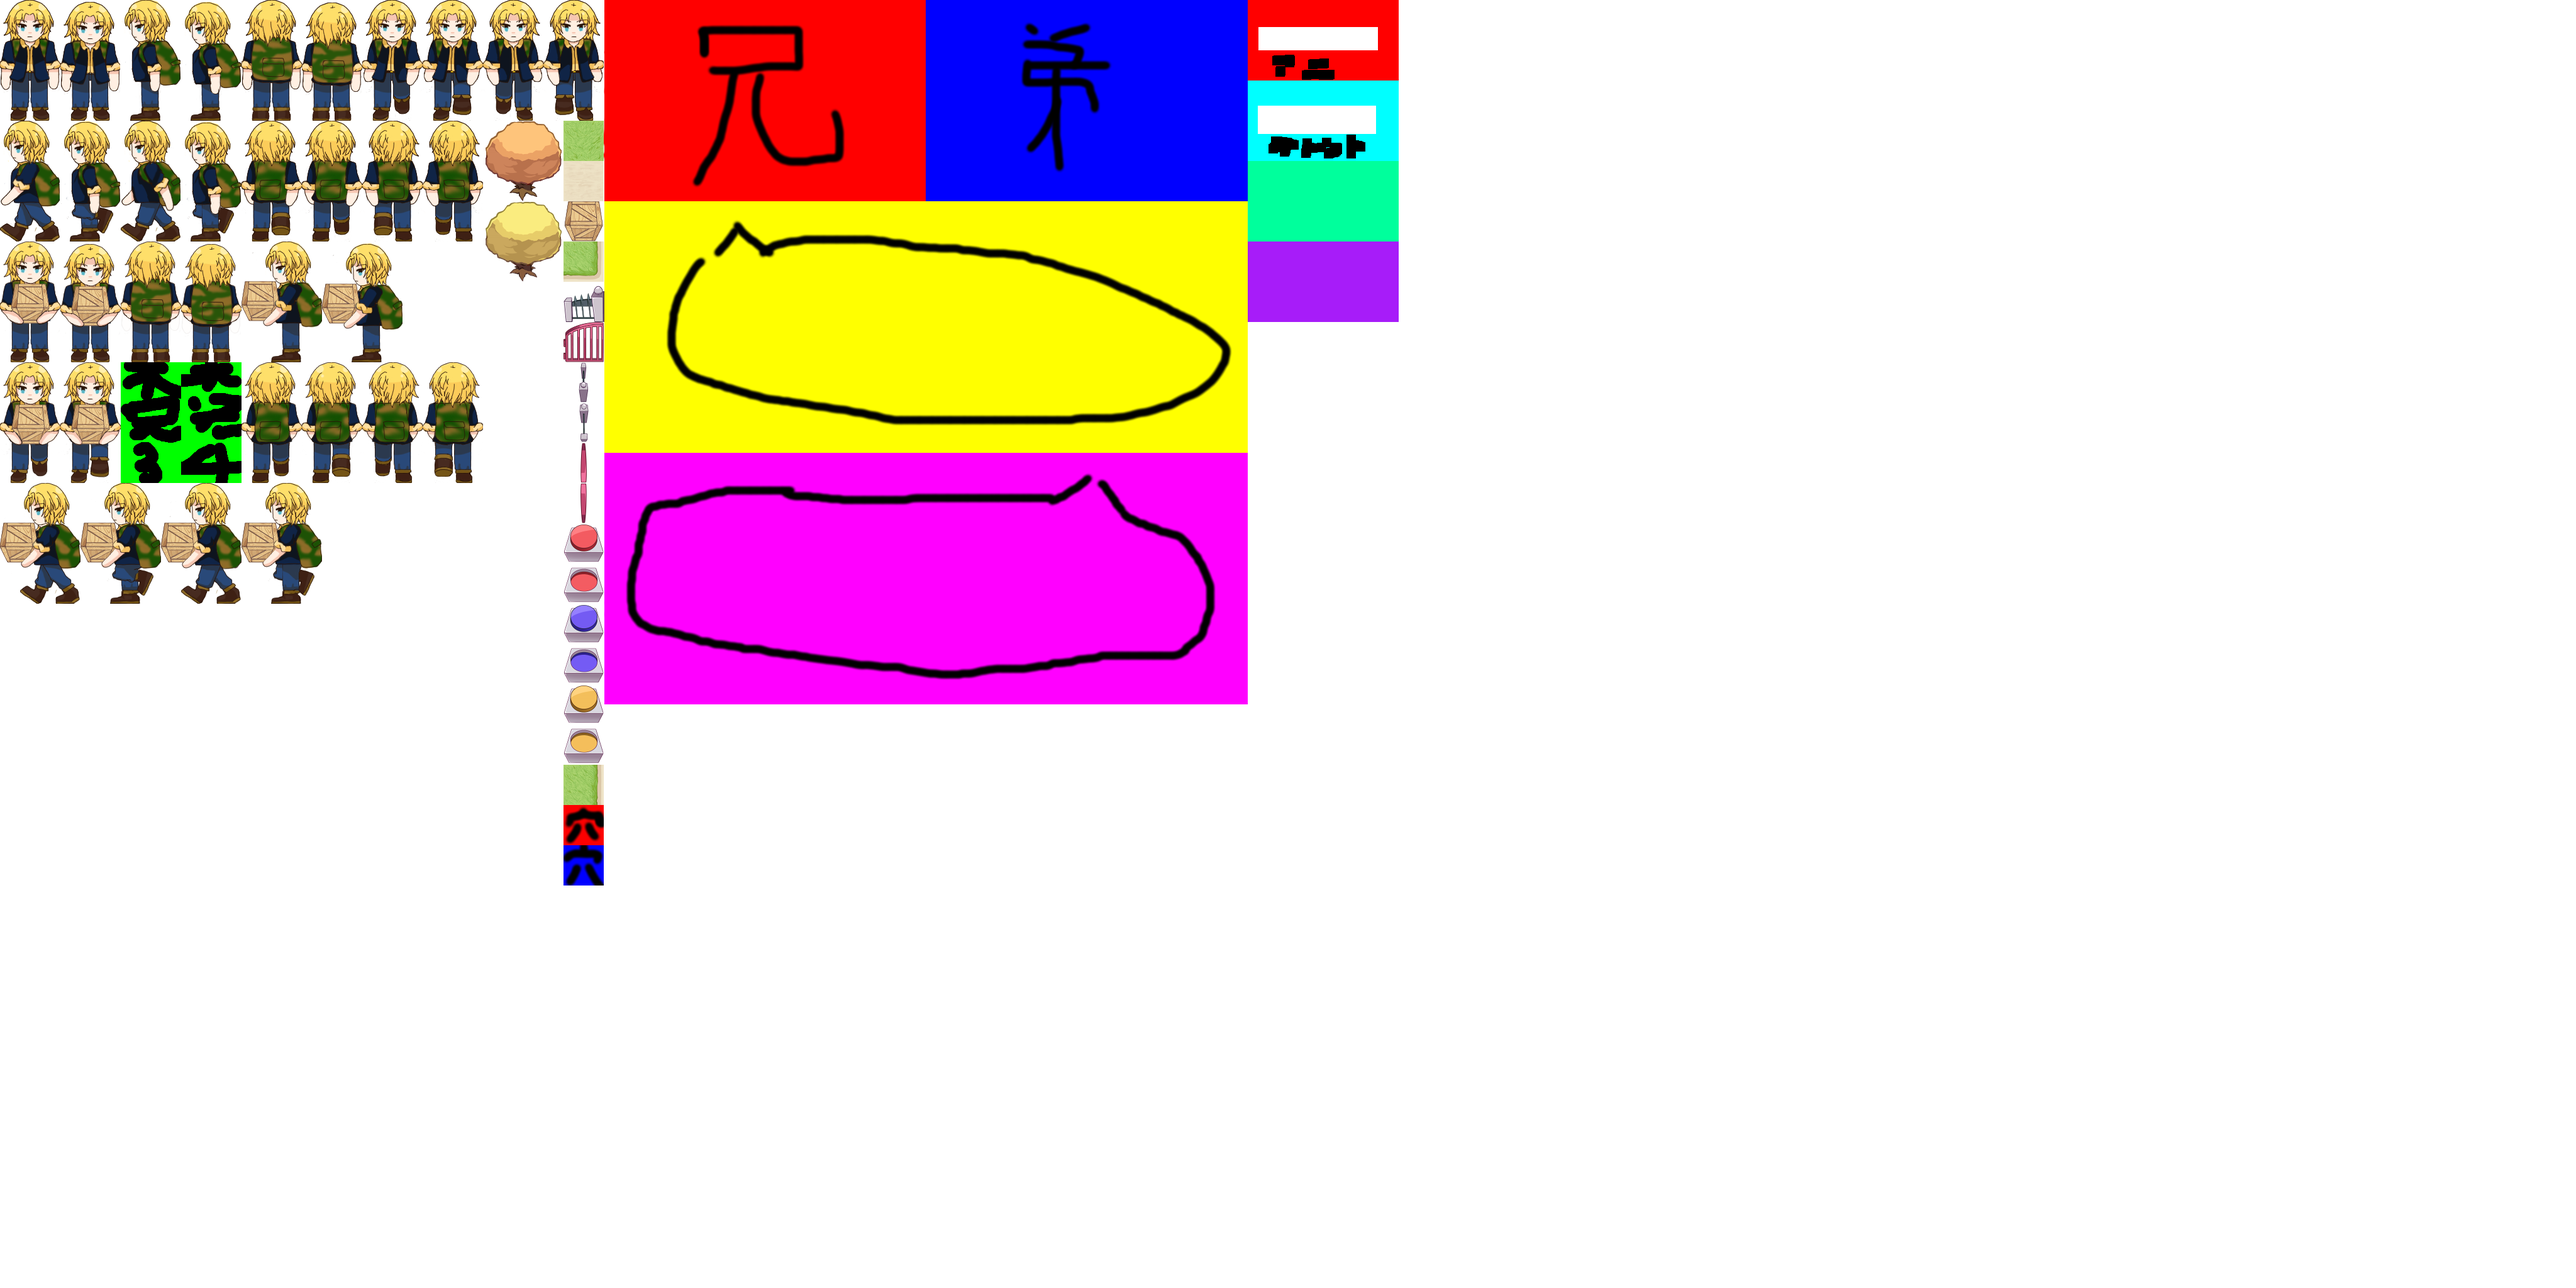
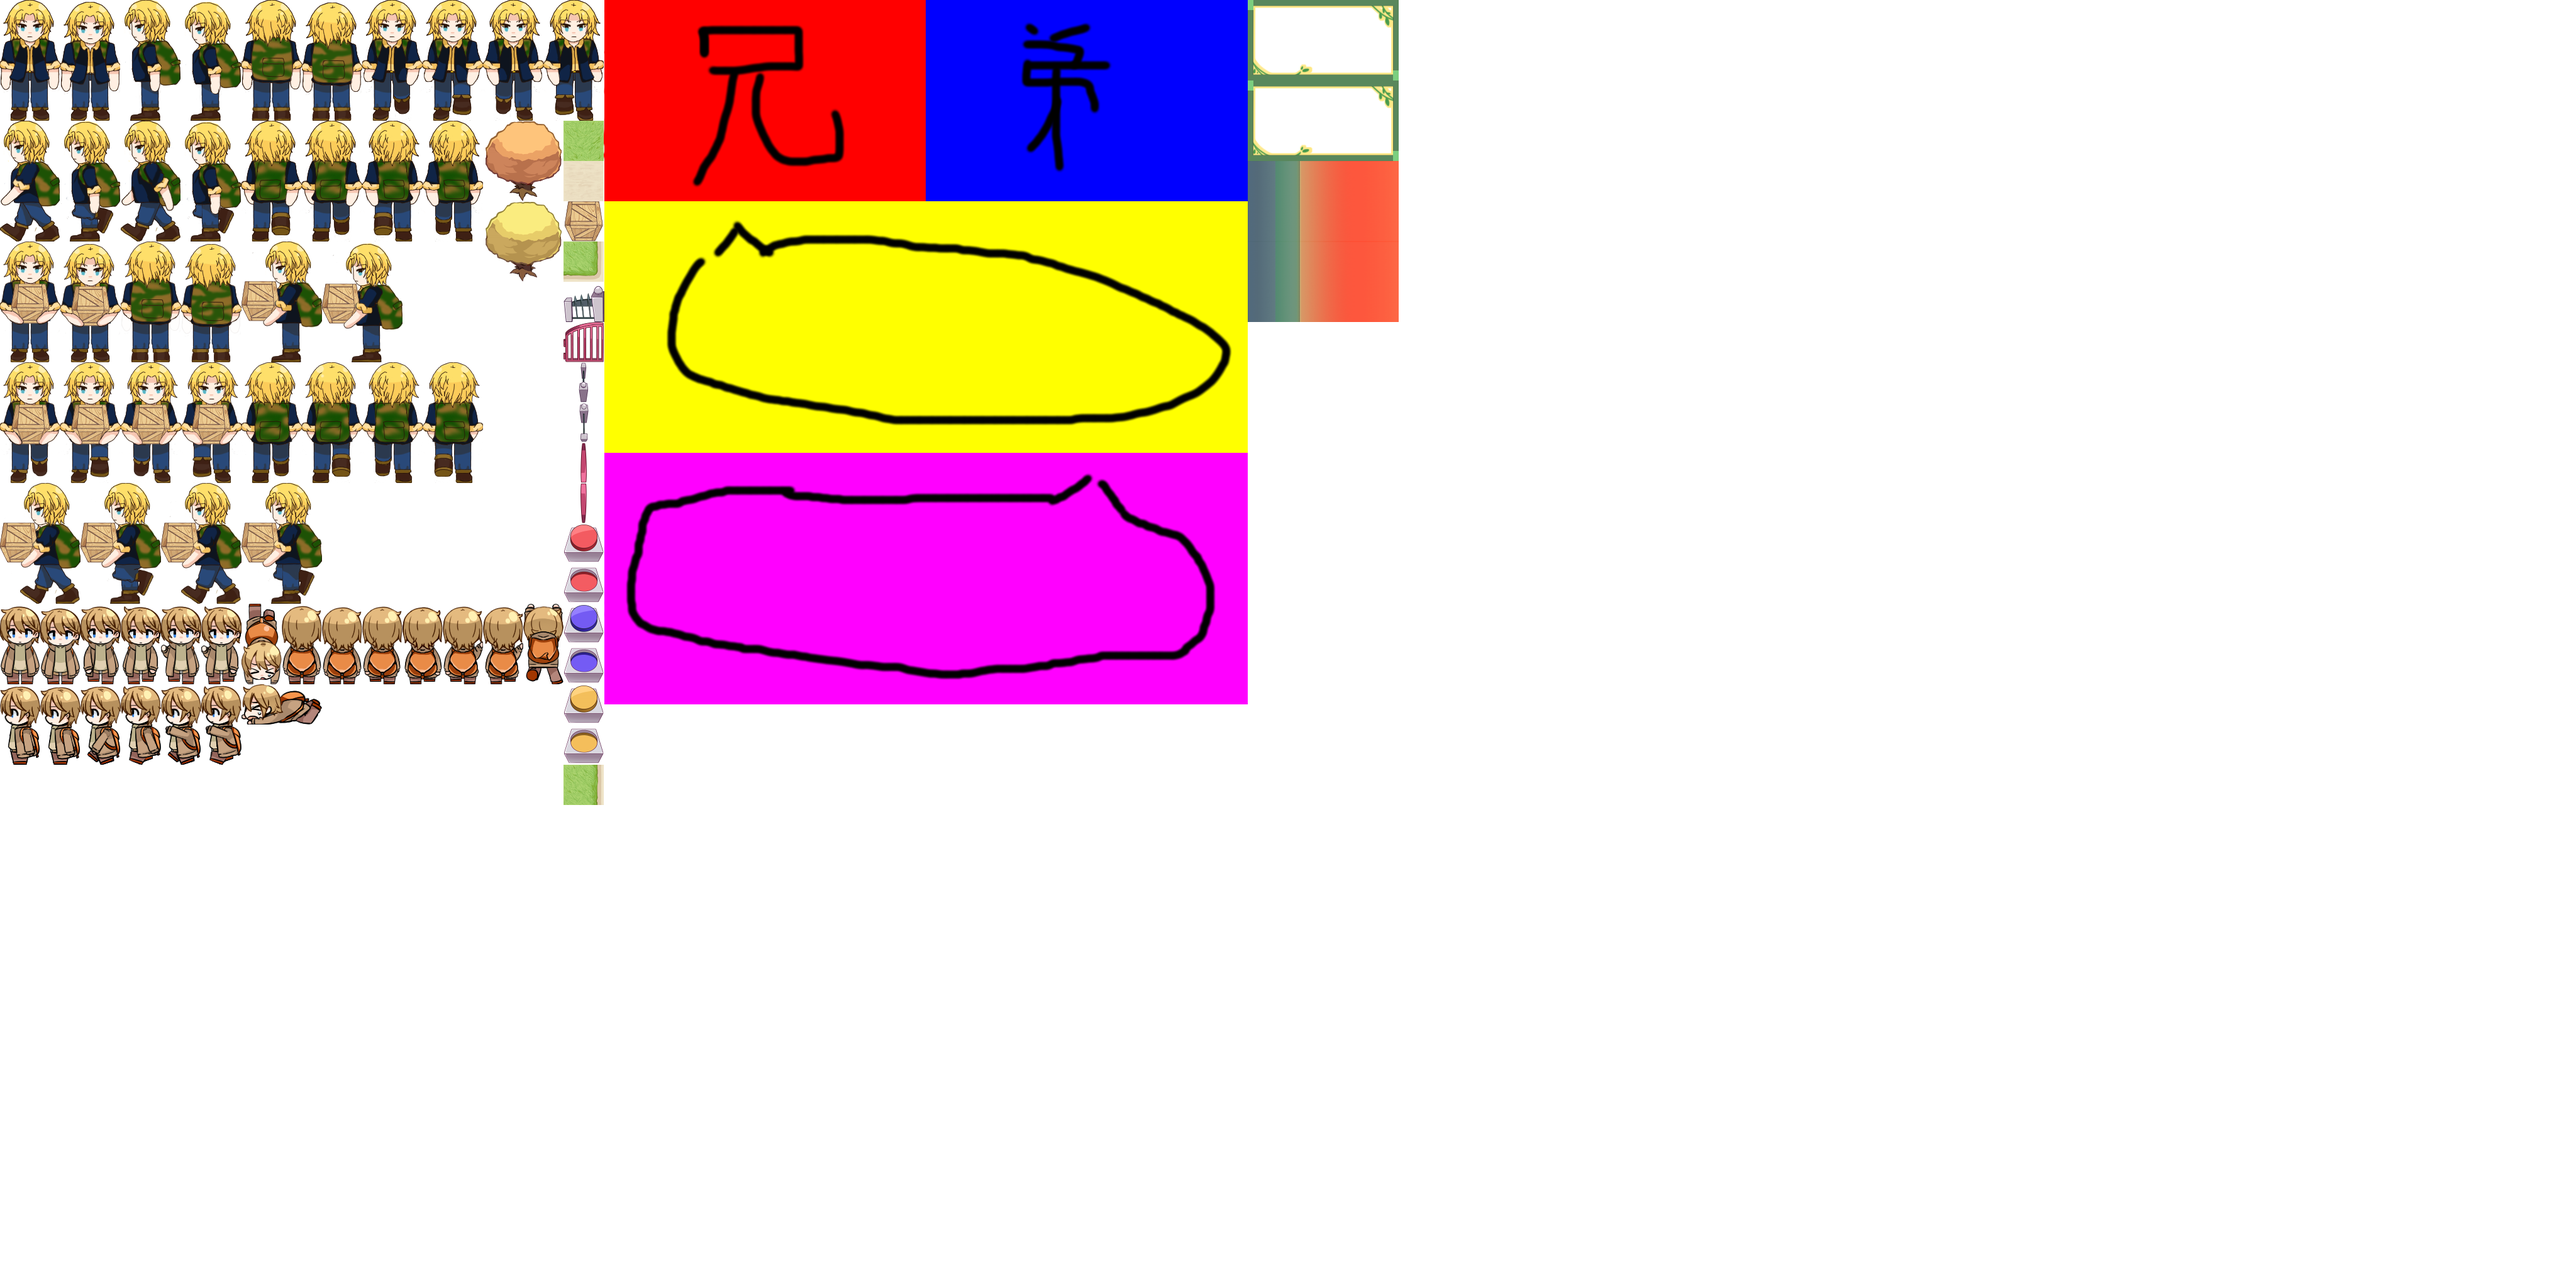
enum

diff --git a/Brother/Brother/GameScene.h b/Brother/Brother/GameScene.h
@@ -140,6 +140,17 @@ enum GAME_VERTEXINFO_ID
 	HOLE_01,
 	HOLE_02,
 
+	YOUNGERBROTHER_tetunagu_FRONT_01,
+	YOUNGERBROTHER_tetunagu_FRONT_02,
+	YOUNGERBROTHER_tetunagu_FRONT_03,
+	YOUNGERBROTHER_tetunagu_FRONT_04,
+	YOUNGERBROTHER_tetunagu_FRONT_05,
+	YOUNGERBROTHER_tetunagu_FRONT_06,
+	YOUNGERBROTHER_korobu_FRONT_01,
+	YOUNGERBROTHER_korobu_FRONT_02,
+	YOUNGERBROTHER_korobu_FRONT_03,
+	BLACKOUT,
+
 
 	GAME_VERTEXINFO_MAX
 };
@@ -160,6 +171,18 @@ enum GAMEANIMA_ID
 	BROTHER_WOODBOX_WALK_BACK,
 	BROTHER_WOODBOX_WALK_SIDE,
 	
+	YOUNGERBROTHER_WAIT_FRONT,
+	YOUNGERBROTHER_WAIT_SIDE,
+	YOUNGERBROTHER_WAIT_BACK,
+	YOUNGERBROTHER_WALK_FRONT,
+	YOUNGERBROTHER_WALK_SIDE,
+	YOUNGERBROTHER_WALK_BACK,
+
+	tetunagu_WALK_FRONT,
+	tetunagu_WALK_SIDE,
+	tetunagu_WALK_BACK,
+
+
 	GAMEANIMA_MAX
 };
 
